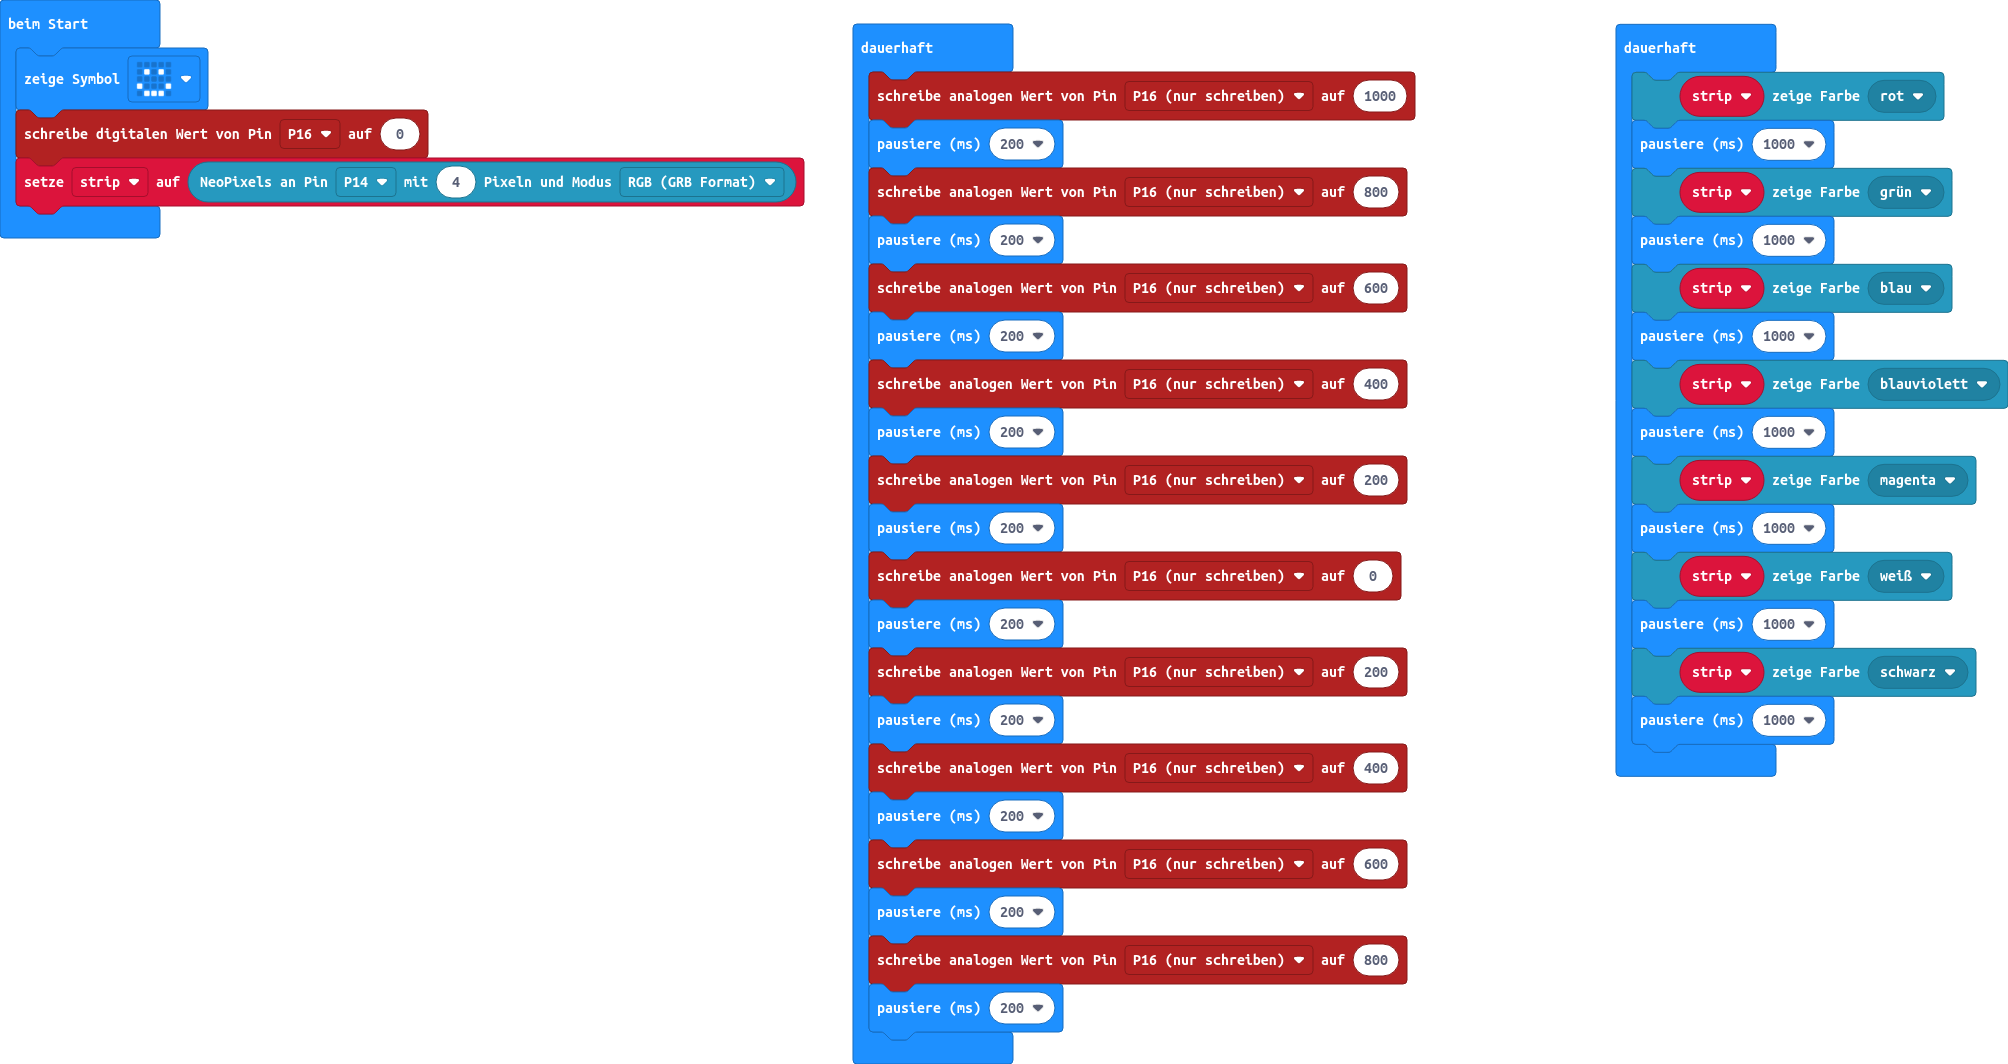
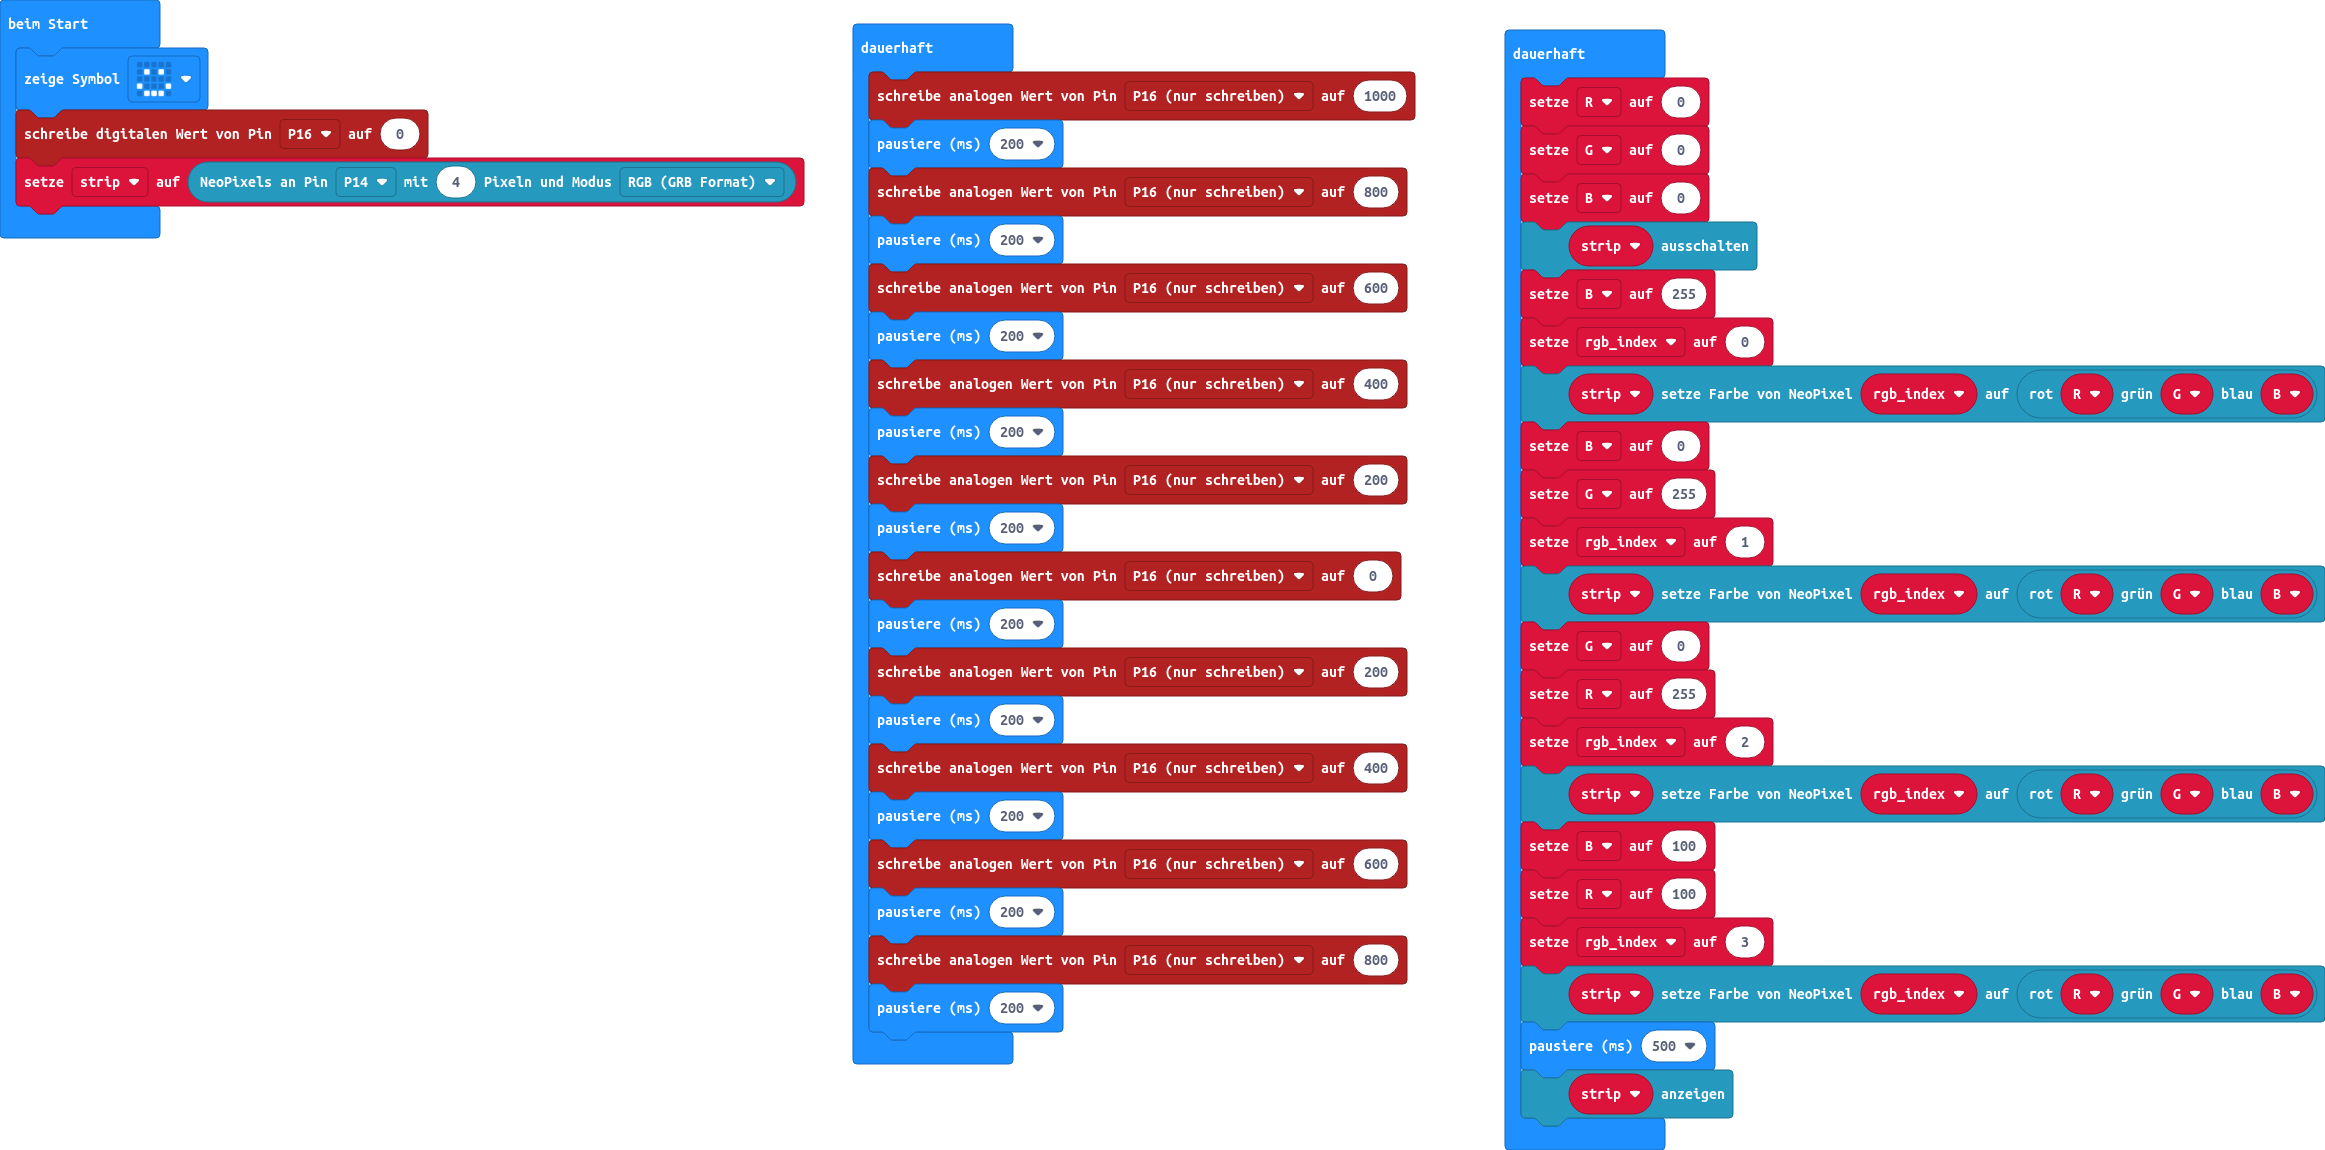
Aktualisiere main.blocks, main.ts

diff --git a/main.ts b/main.ts
@@ -1,3 +1,7 @@
+let rgb_index = 0
+let B = 0
+let G = 0
+let R = 0
 basic.showIcon(IconNames.Happy)
 pins.digitalWritePin(DigitalPin.P16, 0)
 let strip = neopixel.create(DigitalPin.P14, 4, NeoPixelMode.RGB)
@@ -24,18 +28,25 @@ basic.forever(function () {
     basic.pause(200)
 })
 basic.forever(function () {
-    strip.showColor(neopixel.colors(NeoPixelColors.Red))
-    basic.pause(1000)
-    strip.showColor(neopixel.colors(NeoPixelColors.Green))
-    basic.pause(1000)
-    strip.showColor(neopixel.colors(NeoPixelColors.Blue))
-    basic.pause(1000)
-    strip.showColor(neopixel.colors(NeoPixelColors.Violet))
-    basic.pause(1000)
-    strip.showColor(neopixel.colors(NeoPixelColors.Purple))
-    basic.pause(1000)
-    strip.showColor(neopixel.colors(NeoPixelColors.White))
-    basic.pause(1000)
-    strip.showColor(neopixel.colors(NeoPixelColors.Black))
-    basic.pause(1000)
+    R = 0
+    G = 0
+    B = 0
+    strip.clear()
+    B = 255
+    rgb_index = 0
+    strip.setPixelColor(rgb_index, neopixel.rgb(R, G, B))
+    B = 0
+    G = 255
+    rgb_index = 1
+    strip.setPixelColor(rgb_index, neopixel.rgb(R, G, B))
+    G = 0
+    R = 255
+    rgb_index = 2
+    strip.setPixelColor(rgb_index, neopixel.rgb(R, G, B))
+    B = 100
+    R = 100
+    rgb_index = 3
+    strip.setPixelColor(rgb_index, neopixel.rgb(R, G, B))
+    basic.pause(500)
+    strip.show()
 })
